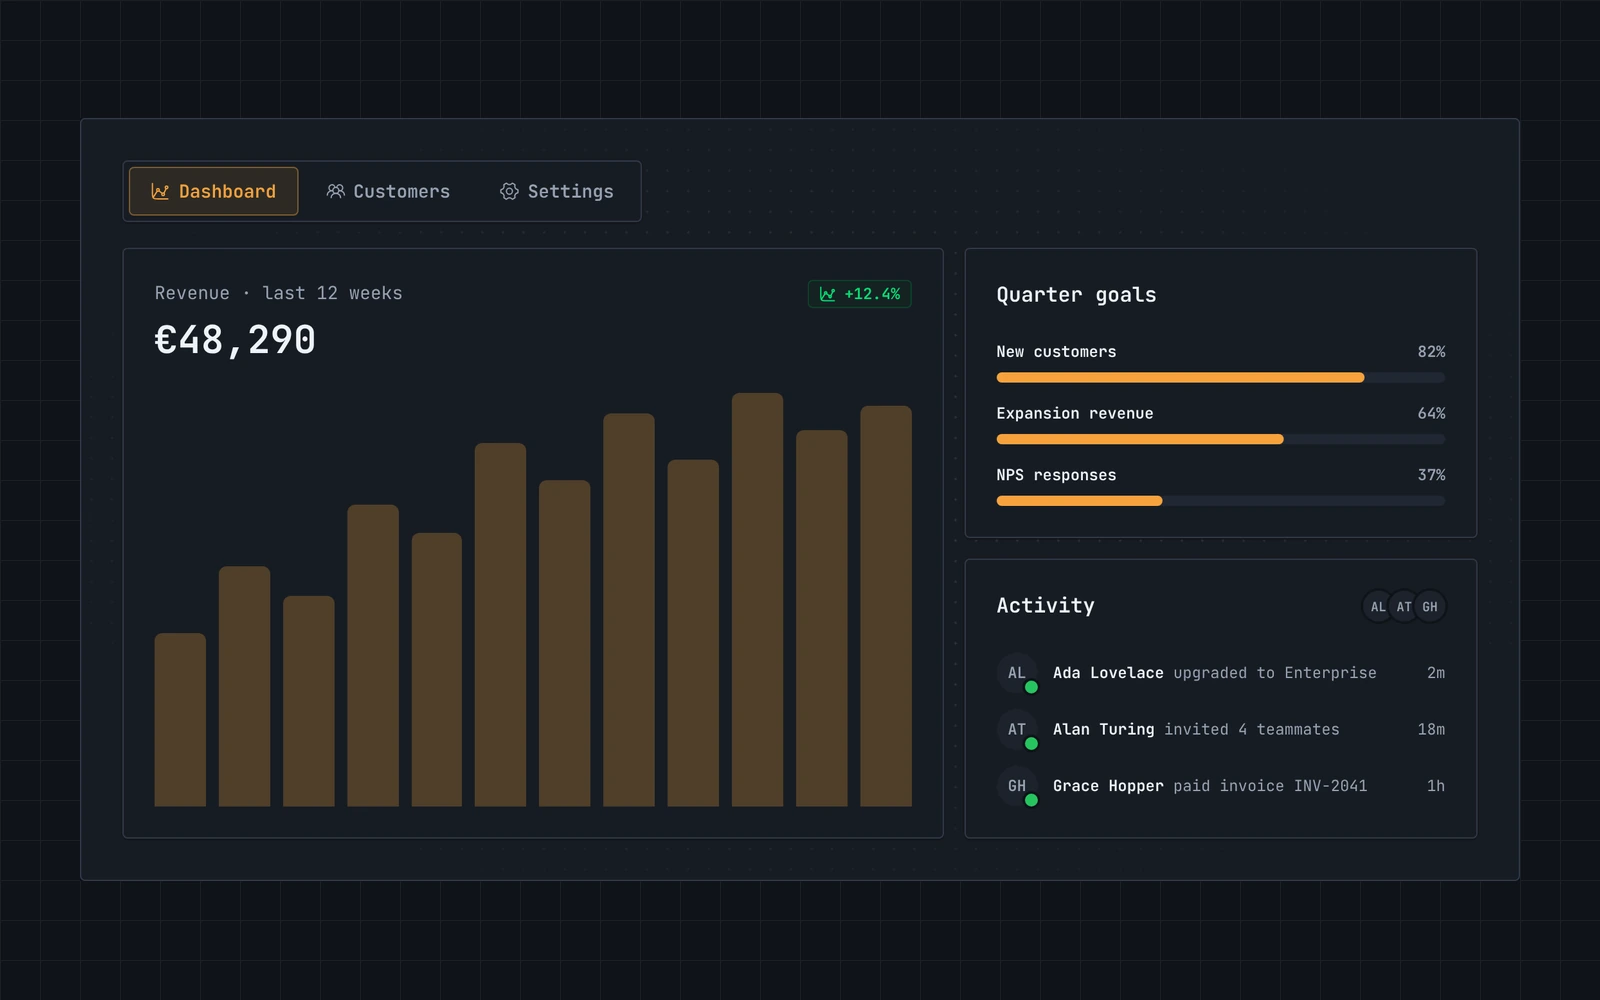
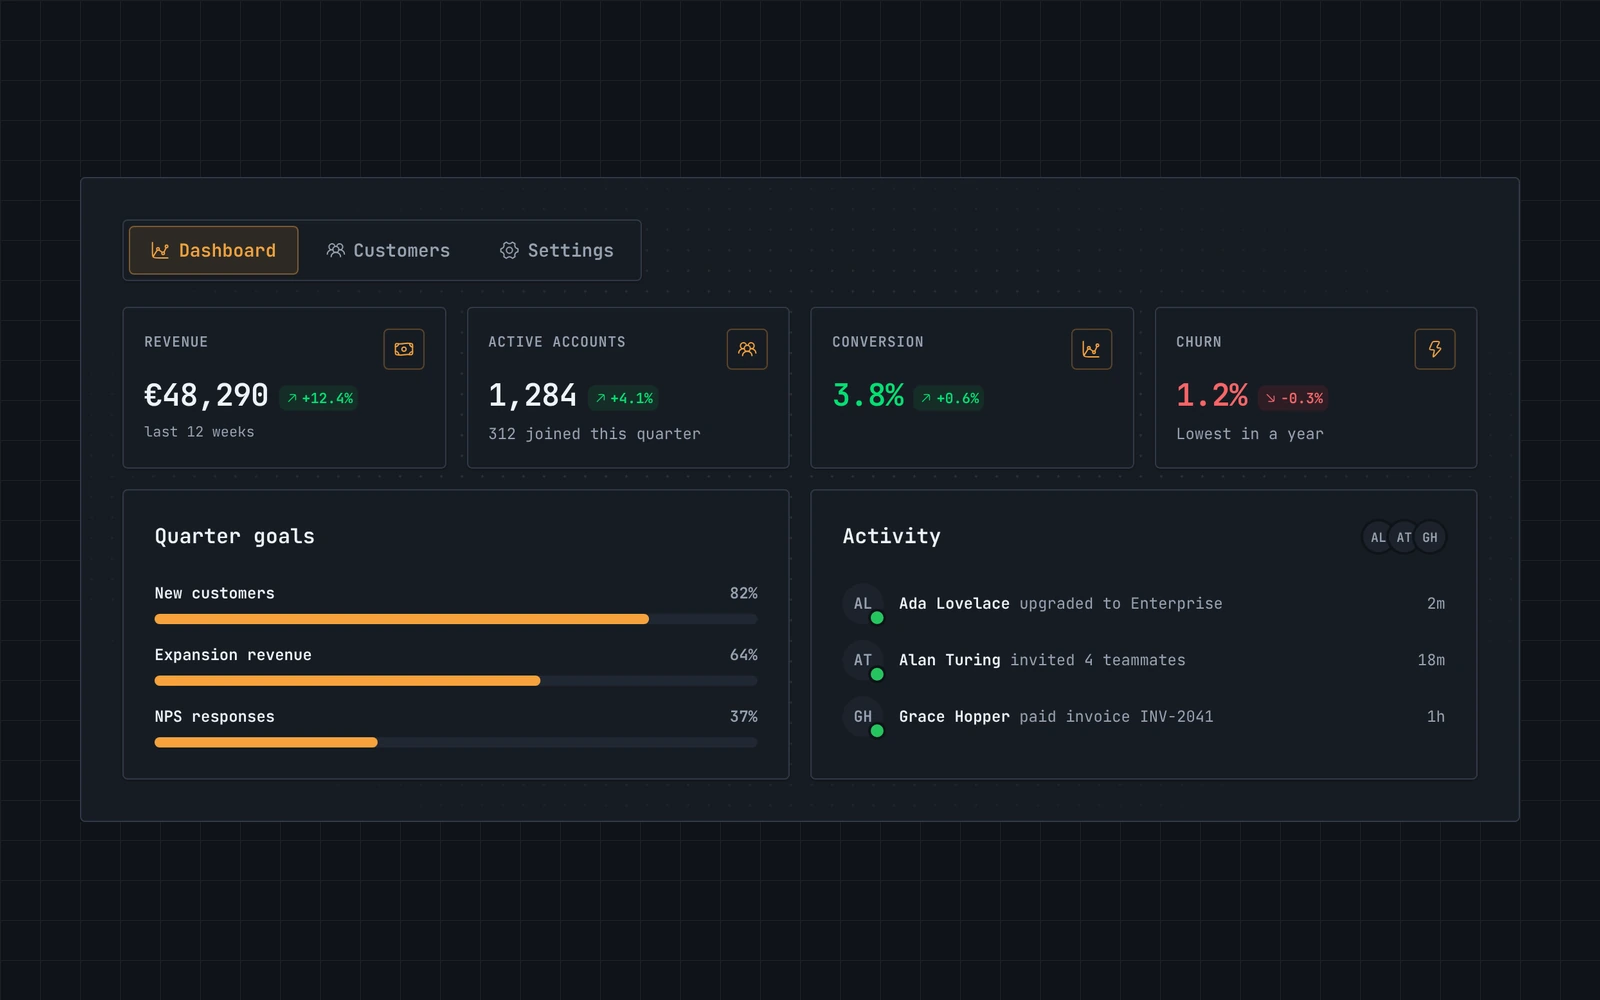
Mark vue-i18n as an optional peer and drop the demo chart
Declare vue-i18n optional in peerDependenciesMeta to match the README.
Replace the hand-drawn revenue chart in the demo's live preview with
stat cards, since the library has no chart components, and refresh the
README screenshots.

Claude-Session: https://claude.ai/code/session_01C15kKiSNiri7gWJJtk1Dgo

diff --git a/demo-app/app/pages/index.vue b/demo-app/app/pages/index.vue
@@ -22,7 +22,7 @@ definePageMeta({ layout: 'dashboard' });
 
 const paletteOpen = useState('demo-palette-open', () => false);
 const installCopied = ref(false);
-const chartReady = ref(false);
+const goalsReady = ref(false);
 
 // Copy the install command
 const handleCopyInstall = async () => {
@@ -33,8 +33,13 @@ const handleCopyInstall = async () => {
     }, 1600);
 };
 
-// Weekly revenue bars for the preview chart
-const revenueBars = [42, 58, 51, 73, 66, 88, 79, 95, 84, 100, 91, 97];
+// Key metrics for the dashboard preview
+const dashboardMetrics = [
+    { label: 'Revenue', value: 48290, icon: Money03Icon, trend: 12.4, trendLabel: 'last 12 weeks', formatOptions: { style: 'currency', currency: 'EUR', maximumFractionDigits: 0 } },
+    { label: 'Active accounts', value: 1284, icon: UserGroupIcon, trend: 4.1, description: '312 joined this quarter' },
+    { label: 'Conversion', value: 0.038, icon: ChartLineData02Icon, trend: 0.6, valueColor: 'green', formatOptions: { style: 'percent', maximumFractionDigits: 1 } },
+    { label: 'Churn', value: 0.012, icon: ZapIcon, trend: -0.3, valueColor: 'red', description: 'Lowest in a year', formatOptions: { style: 'percent', maximumFractionDigits: 1 } }
+];
 const recentActivity = [
     { name: 'Ada Lovelace', action: 'upgraded to Enterprise', time: '2m', img: 'https://i.pravatar.cc/96?img=47' },
     { name: 'Alan Turing', action: 'invited 4 teammates', time: '18m', img: 'https://i.pravatar.cc/96?img=12' },
@@ -82,10 +87,10 @@ const handleSave = async () => {
 // Pages shown in the explore grid
 const explorePages = computed(() => demoNavigation.flatMap(group => group.items).filter(page => page.id !== 'overview'));
 
-// Grow the chart bars after mount
+// Fill the goal bars after mount
 onMounted(() => {
     window.setTimeout(() => {
-        chartReady.value = true;
+        goalsReady.value = true;
     }, 250);
 });
 </script>
@@ -168,31 +173,13 @@ onMounted(() => {
                 </TabsList>
 
                 <!-- Dashboard tab -->
-                <TabsContent value="dashboard" class="grid gap-4 lg:grid-cols-[1.6fr_1fr]">
-                    <Card>
-                        <CardHeader>
-                            <div class="flex items-start justify-between gap-4">
-                                <div>
-                                    <CardDescription>Revenue · last 12 weeks</CardDescription>
-                                    <CardTitle class="mt-2 text-2xl! sm:text-3xl!">€48,290</CardTitle>
-                                </div>
-                                <Badge text="+12.4%" color="green" :icon="ChartLineData02Icon" />
-                            </div>
-                        </CardHeader>
-                        <CardContent class="flex-1">
-                            <!-- Bar chart (fills the card when the side column is taller) -->
-                            <div class="flex min-h-44 flex-1 items-end gap-1.5 sm:gap-2.5">
-                                <div v-for="(value, index) in revenueBars" :key="index" class="group/bar relative flex h-full flex-1 items-end">
-                                    <div class="w-full origin-bottom rounded-t-sm bg-primary/25 transition-[scale,background-color] duration-700 ease-spring group-hover/bar:bg-primary" :style="{ height: `${value}%`, scale: chartReady ? '1 1' : '1 0', transitionDelay: `${index * 45}ms` }" />
-                                    <span class="pointer-events-none absolute -top-6 left-1/2 -translate-x-1/2 rounded-sm bg-foreground px-1.5 py-0.5 text-[10px] font-semibold text-background opacity-0 transition-[opacity,translate] duration-200 group-hover/bar:-translate-y-1 group-hover/bar:opacity-100">
-                                        €{{ Math.round(value * 48.3) }}
-                                    </span>
-                                </div>
-                            </div>
-                        </CardContent>
-                    </Card>
+                <TabsContent value="dashboard" class="flex flex-col gap-4">
+                    <!-- Key metrics -->
+                    <div class="grid gap-4 sm:grid-cols-2 xl:grid-cols-4">
+                        <SingleValueCard v-for="metric in dashboardMetrics" :key="metric.label" v-bind="metric" />
+                    </div>
 
-                    <div class="flex flex-col gap-4">
+                    <div class="grid gap-4 lg:grid-cols-2">
                         <!-- Goals -->
                         <Card>
                             <CardHeader>
@@ -201,7 +188,7 @@ onMounted(() => {
                             <CardContent class="gap-4">
                                 <div v-for="goal in [{ label: 'New customers', value: 82 }, { label: 'Expansion revenue', value: 64 }, { label: 'NPS responses', value: 37 }]" :key="goal.label" class="flex flex-col gap-2">
                                     <div class="flex justify-between text-xs font-semibold"><span>{{ goal.label }}</span><span class="text-muted-foreground tabular-nums">{{ goal.value }}%</span></div>
-                                    <Progress :model-value="chartReady ? goal.value : 0" />
+                                    <Progress :model-value="goalsReady ? goal.value : 0" />
                                 </div>
                             </CardContent>
                         </Card>

diff --git a/README.md b/README.md
@@ -231,7 +231,7 @@ Every screenshot comes from the [demo app](#demo-app), and each one follows your
         <td width="50%" valign="top">
             <picture>
                 <source media="(prefers-color-scheme: dark)" srcset="docs/images/live-preview-dark.webp">
-                <img alt="A small dashboard built only with UI Vintage: revenue chart, goals, and activity" src="docs/images/live-preview-light.webp" width="100%">
+                <img alt="A small dashboard built only with UI Vintage: stat cards, goals, and activity" src="docs/images/live-preview-light.webp" width="100%">
             </picture>
             <p align="center"><b>Built with UI Vintage</b><br><sub>A small dashboard made only from library components</sub></p>
         </td>
